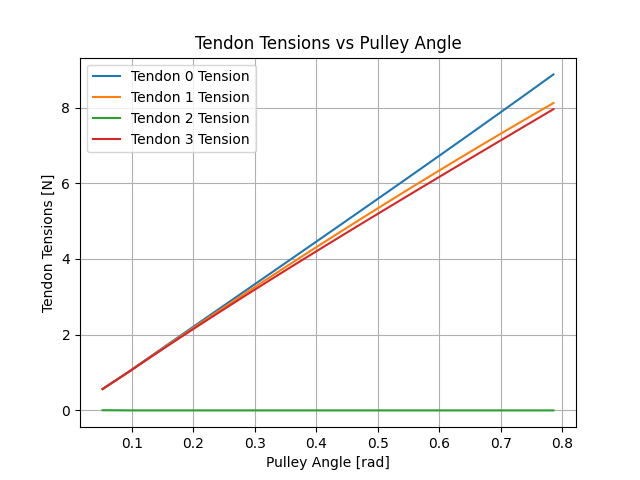
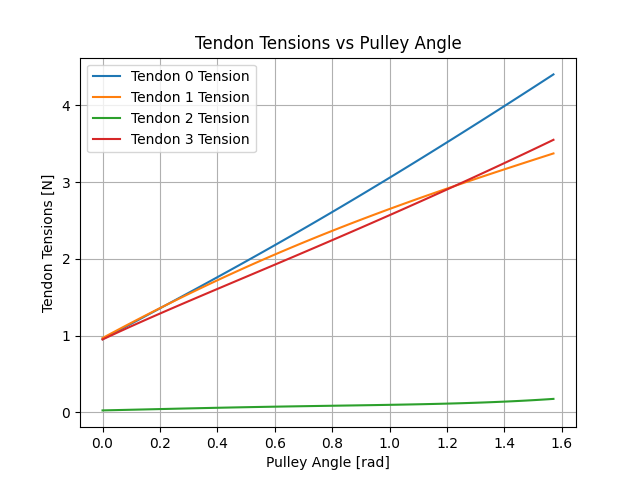
Updated simulation parameters

diff --git a/main.py b/main.py
@@ -47,7 +47,7 @@ def main():
 
     r_joints = [0.006, 0.005, 0.004]  # Three joints
     r_tip = 0.003
-    L_phalanxes = [0.05, 0.03, 0.02]
+    L_phalanxes = [0.04, 0.03, 0.02]
     b_a_metacarpal = 0.006
     l_a = [1, 0, 0]
     l_b = [0, 0, 0]
@@ -88,10 +88,10 @@ def main():
 
     inf_stiff_tendons = [1, 1, 1, 1]
     k_tendons = [0, 0, 0, 0]
-    l_springs = [0.000001, 0.0000001]
+    l_springs = [0.003, 0.003]
     l_0_springs = [0, 0]
-    k_springs = [2140, 2140]
-    pulley_radius_functions = [lambda x: 0.0095, lambda x: 0.01]
+    k_springs = [320, 320]
+    pulley_radius_functions = [lambda x: 0.01, lambda x: 0.0125]
     tendon_joint_interface = [["e", "t", "e"], ["t", "e", "n"], ["f", "f", "n"], ["f", "f", "f"]]
     tendon_spring_interface = [[1, 0], [0, 1], [0, 0], [0, 0]]
     tendon_pulley_interface = [[0, 0], [0, 0], [1, 0], [0, 1]]
@@ -100,7 +100,7 @@ def main():
 
     # Simulation parameters
     num_simulations = 100
-    pulley_angles = np.linspace(0.1*np.pi / 6, np.pi / 4, num_simulations)
+    pulley_angles = np.linspace(0, np.pi / 2, num_simulations)
 
     # Run the simulation
     joint_angles, tendon_tensions, motor_torque, errors = run_simulation(finger, pulley_angles)
